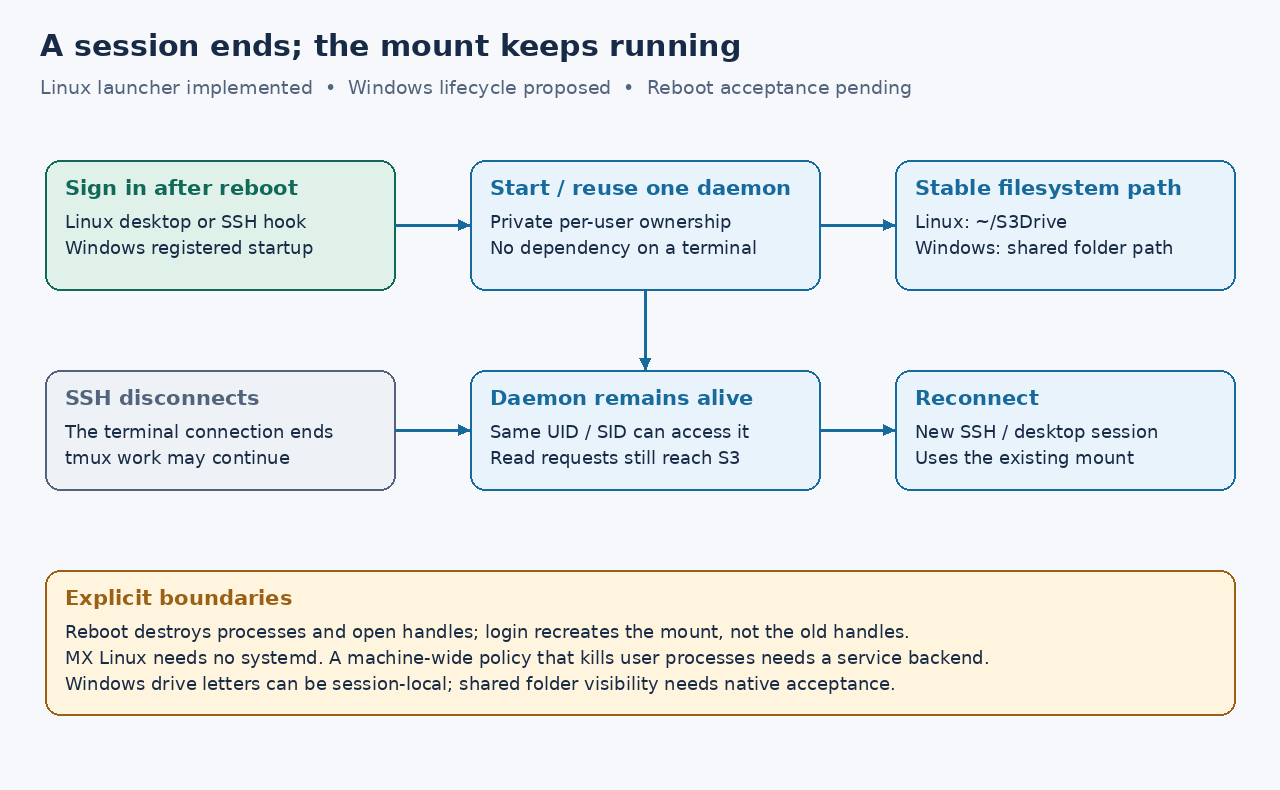
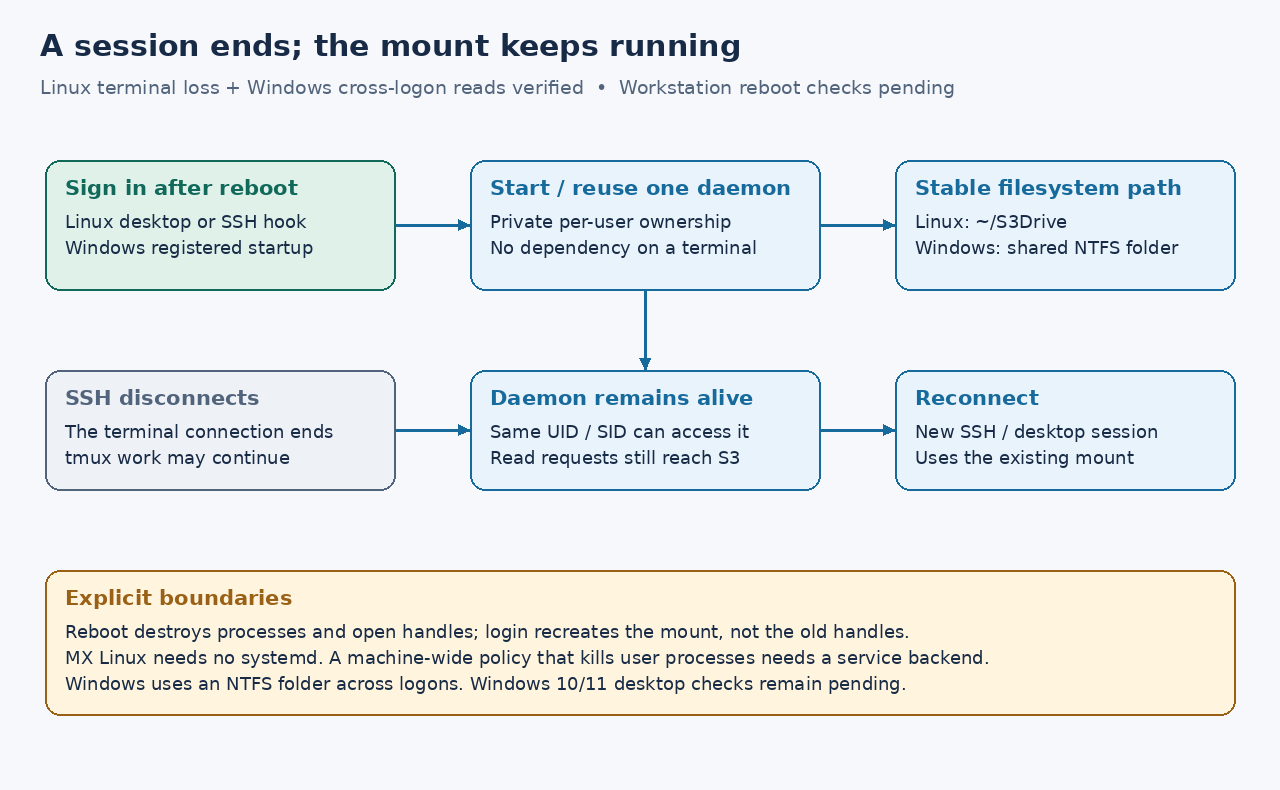
Document verified Linux and Windows startup boundaries and test hosts

Changed region(s): [[0.0625, 0.0911, 0.75, 0.1215], [0.125, 0.8506, 0.7188, 0.881], [0.8438, 0.3038, 0.9375, 0.3342]]

diff --git a/scripts/draw-architecture.py b/scripts/draw-architecture.py
@@ -63,7 +63,7 @@ d.box(440, 515, 365, 125, "S3 client + Tokio", ["AWS SDK for Rust", "LIST / HEAD
 d.arrow([(620, 465), (620, 515)])
 d.box(890, 440, 340, 200, "S3-compatible service", ["Wasabi / other providers", "Bucket A: documents/…", "Bucket B: photos/…", "Stores the actual file bytes"], color=GREEN, fill="#dff1e9")
 d.arrow([(805, 560), (890, 560)], label="HTTPS", position=(816, 532))
-d.box(50, 515, 330, 125, "Linux startup", ["Desktop and SSH login hooks", "No systemd dependency"])
+d.box(50, 515, 330, 125, "Startup supervisors", ["Linux: hooks, no systemd", "Windows: Task Scheduler"])
 d.arrow([(380, 575), (415, 575), (415, 420), (440, 420)])
 d.box(50, 705, 350, 135, "Local SQLite", ["Schema bootstrap exists", "Planned: cache metadata,", "local recovery / upload journal"], color=AMBER, fill="#fff4de")
 d.box(440, 705, 365, 125, "Local cache files", ["Planned: downloaded data", "and durable staged generations"], color=AMBER, fill="#fff4de", planned=True)
@@ -73,10 +73,10 @@ d.box(890, 705, 340, 125, "Optional Turso service", ["Shared metadata authority"
 d.text(50, 850, "State and cache stay outside the mounted filesystem. Current mounts are read-only.", 17, color=MUTED)
 d.save("architecture.png")
 
-d = Diagram("A session ends; the mount keeps running", "Linux launcher implemented  •  Windows lifecycle proposed  •  Reboot acceptance pending", 790)
+d = Diagram("A session ends; the mount keeps running", "Linux terminal loss + Windows cross-logon reads verified  •  Workstation reboot checks pending", 790)
 d.box(45, 160, 350, 130, "Sign in after reboot", ["Linux desktop or SSH hook", "Windows registered startup"], color=GREEN, fill="#dff1e9")
 d.box(470, 160, 350, 130, "Start / reuse one daemon", ["Private per-user ownership", "No dependency on a terminal"])
-d.box(895, 160, 340, 130, "Stable filesystem path", ["Linux: ~/S3Drive", "Windows: shared folder path"])
+d.box(895, 160, 340, 130, "Stable filesystem path", ["Linux: ~/S3Drive", "Windows: shared NTFS folder"])
 d.arrow([(395, 225), (470, 225)])
 d.arrow([(820, 225), (895, 225)])
 d.box(45, 370, 350, 120, "SSH disconnects", ["The terminal connection ends", "tmux work may continue"], color=MUTED, fill="#eef1f6")
@@ -85,7 +85,7 @@ d.arrow([(645, 290), (645, 370)])
 d.arrow([(395, 430), (470, 430)])
 d.box(895, 370, 340, 120, "Reconnect", ["New SSH / desktop session", "Uses the existing mount"])
 d.arrow([(820, 430), (895, 430)])
-d.box(45, 570, 1190, 145, "Explicit boundaries", ["Reboot destroys processes and open handles; login recreates the mount, not the old handles.", "MX Linux needs no systemd. A machine-wide policy that kills user processes needs a service backend.", "Windows drive letters can be session-local; shared folder visibility needs native acceptance."], color=AMBER, fill="#fff4de")
+d.box(45, 570, 1190, 145, "Explicit boundaries", ["Reboot destroys processes and open handles; login recreates the mount, not the old handles.", "MX Linux needs no systemd. A machine-wide policy that kills user processes needs a service backend.", "Windows uses an NTFS folder across logons. Windows 10/11 desktop checks remain pending."], color=AMBER, fill="#fff4de")
 d.save("startup-lifecycle.png")
 
 d = Diagram("Turso as a shared metadata authority", "Proposed managed mode  •  Not implemented or enabled  •  File bytes remain in S3", 870)

diff --git a/HANDOFF.md b/HANDOFF.md
@@ -2,8 +2,9 @@
 
 Updated: 2026-10-16. P3 read-only mounts have passed native acceptance on Linux
 and Windows. Scoped live Wasabi reads also passed. P3.5a adds Linux startup
-without systemd; native session tests passed locally. Goal active; Windows
-startup, cache, recovery, safe writes and packaging remain future work.
+without systemd; native session tests passed locally. P3.5b adds Windows
+startup with native cross-logon acceptance. Goal active; actual workstation
+reboot/SSH login checks, cache, recovery, safe writes and packaging remain.
 
 ## Goal and scope
 
@@ -62,22 +63,39 @@ including Linux startup, Linux/Windows native mounts and book checks.
 Actual reboot, full desktop logout
 policy and incoming SSH authentication/PAM need separate acceptance.
 
-On `windows-session-startup`, the Windows foreground mount also accepts a new
-absolute NTFS directory path, with existing parents and no junctions/symlinks.
-Directory tests cover Unicode reads, occupied targets, graceful teardown and
-forced process termination; native CI run 38935158119 passed at `af18c3a`.
-The new `scripts/windows-session.ps1` registers an owner-account, least-privilege
-password-backed scheduled task. Its independent supervisor uses stdin EOF for
-graceful unmount. No Windows passwords are stored in application files/argv.
-`scripts/test-windows-session.ps1`, called by the native Rust test while the HTTP
-fixture is live, creates a disposable non-admin account and two independent
-logons to verify real S3/Unicode reads, duplicate starts and uninstall.
-Startup native CI is pending; do not claim cross-session acceptance yet.
-No real user Windows credential or startup registration was changed. Accounts
-without usable Windows passwords or with restrictive batch-logon policies need
-a service alternative, not an S4U/interactive-only fallback. Actual reboot,
-full sign-out, SSH authentication/trigger behavior remain host acceptance work.
-See `docs/src/startup-and-sessions.md`.
+Windows foreground mounts accept a new absolute NTFS directory path, with
+existing parents and no junctions/symlinks. Tests cover Unicode reads, occupied
+targets, graceful teardown and forced process termination. The persistent
+`scripts/windows-session.ps1` registers an owner-account, least-privilege,
+password-backed scheduled task. Its supervisor uses stdin EOF for graceful
+unmount. No Windows password is stored in application files/argv. The account
+requires batch-logon rights; the launcher never changes security policy.
+
+Native startup acceptance passed at `029765ec79c99a029037356ba61278fc7de6ab7b`
+in [run 38945436975](https://github.com/marshallr12/s3drive/actions/runs/38945436975).
+Tests run remotely on GitHub's Windows Server 2025 VM (`10.0.26100`), not on
+this Linux workstation. The test creates an ordinary account and verifies two
+distinct TOKEN_STATISTICS.AuthenticationId values reading the same daemon's
+exact S3/Unicode bytes after its installer exits. Duplicate starts preserve
+its PID; another account is denied access. Remove deletes the task/mount and
+preserves config/credentials. The prior drive/folder Unicode corpus also runs.
+Actual Windows 10/11 desktop, reboot, full sign-out and SSH authentication/trigger
+behavior remain target-host acceptance work. No real user Windows credential or
+startup registration changed. Passwordless accounts or restrictive batch-logon
+policy require a service alternative, which is not implemented.
+
+The elevated fixture provisions/removes only its new account's batch right.
+Short-lived clients use CreateProfile's returned path without loading HKCU.
+Windows can retain a locked registry profile after all fixture processes exit.
+CI explicitly permits only that sharing violation to defer to GitHub VM
+destruction, after successful functional checks, dummy credential removal and
+account deletion; all other cleanup failures remain fatal. Normal local tests
+still require profile deletion. This is fixture disposal, not application
+uninstall behavior. See `docs/src/development.md` and `startup-and-sessions.md`.
+`whoami /logonid` can be inherited by CreateProcessWithLogonW clients, so use
+token AuthenticationId for session uniqueness. Earlier failing runs and logs
+`/tmp/s3drive-windows-session-job10.log` through `job12.log` retain the diagnosis;
+do not report them as complete acceptance.
 
 ## Turso research and architecture images
 
@@ -171,23 +189,23 @@ was fixed and the complete native gate rerun; none is acceptance evidence.
 
 ## Publication and next work
 
-Linux startup/research is published to private `origin/main` at
-`3eeb40bf94f990e2917c49b4107f74a4679ef61a`; final-source CI run
-[38933907710](https://github.com/marshallr12/s3drive/actions/runs/38933907710)
-passed. Windows startup work is on `windows-session-startup`. Baseline and
-directory-mount local gates passed (`/tmp/s3drive-windows-startup-baseline.log`,
-`/tmp/s3drive-windows-folder-gate.log`). Publication requires the exact branch tip's
-terminal CI success, then a fast-forward. Check current Git and Actions state
-when resuming; preserve ignored user configuration.
+Linux startup/research baseline `3eeb40bf94f990e2917c49b4107f74a4679ef61a`
+passed final-source CI run 38933907710. Windows startup source checkpoint
+`029765ec79c99a029037356ba61278fc7de6ab7b` has native acceptance in run
+38945436975; subsequent updates document the results and refresh the diagrams.
+The publication procedure is a terminal successful CI run for the final branch
+tip, followed by fast-forwarding/pushing private `origin/main`. Check live Git
+and Actions state when resuming; preserve ignored user configuration. The local
+gate log is `/tmp/s3drive-windows-session-final-gate.log`.
 
-Next is P3.5b Windows startup/session acceptance, followed by P4: design
-authenticated cache identity, SQLite migration, revision-
-bound clean data cache, exclusive process ownership, eviction/pinning and
-restart/disk-full/offline-miss tests. Keep cache/state outside mounted trees.
-Writes require separate staged generations and a durable journal (P5a),
-provider conditional commits/recovery (P5b), then desktop mutations (P5c).
-Do not expose unconditional overwrite as a shortcut. Broader live provider
-probes must use explicitly scoped disposable fixtures.
+Target-workstation reboot/sign-in, full sign-out policy and SSH authentication
+acceptance remain pending. The next independent implementation phase is P4:
+authenticated cache identity, SQLite migration, revision-bound clean data cache,
+exclusive process ownership, eviction/pinning and restart/disk-full/offline-miss
+tests. Keep cache/state outside mounted trees. Writes require separate staged
+generations and a durable journal (P5a), provider conditional commits/recovery
+(P5b), then desktop mutations (P5c). Do not expose unconditional overwrite as a
+shortcut. Broader live provider probes require scoped disposable fixtures.
 
 Read the mdBook implementation plan, provider/OS contracts and decisions.
 No subagents were dispatched. The overall goal is not complete.

diff --git a/docs/src/startup-and-sessions.md b/docs/src/startup-and-sessions.md
@@ -83,7 +83,8 @@ exposes an NTFS directory mount as the common desktop/SSH path. A drive letter
 can remain a convenience inside an individual session.
 
 `scripts/windows-session.ps1` implements a password-backed Task Scheduler
-registration. Native acceptance is pending for this new backend. The scheduled
+registration. Native cross-logon acceptance passed on the hosted Windows VM.
+The scheduled
 process uses the mounting account at least privilege in a separate batch logon,
 has no execution time limit, ignores duplicate starts and retries an unexpected
 failure at most three times. Its private supervisor launches the Rust mount and
@@ -159,7 +160,8 @@ python3 scripts/test-linux-session.py
 The startup source checkpoint `664f51cdbf0e44cf2410da4cd3bef606e03fe5fc`
 also passed Linux startup, both native filesystem gates and book checks in
 [CI run 38933462454](https://github.com/marshallr12/s3drive/actions/runs/38933462454).
-The Windows result covers the existing foreground drive, not persistent startup.
+That earlier Windows result covers the foreground drive. The newer persistent
+startup evidence is recorded below.
 
 It uses a real FUSE mount, the real desktop-entry parser (`gio`), a login hook
 inside a temporary tmux server, duplicate startup attempts, destruction of that
@@ -170,7 +172,20 @@ changing the profile. Paths include spaces, Unicode, dollar and percent characte
 It checks the synthetic source root without contacting any cloud account.
 The existing native mount gates separately verify remote object reads.
 
+Windows persistent startup passed the native test at
+`029765ec79c99a029037356ba61278fc7de6ab7b` in
+[run 38945436975](https://github.com/marshallr12/s3drive/actions/runs/38945436975).
+This runs remotely on a GitHub-hosted Windows Server 2025 VM with real WinFsp,
+using local HTTP fixtures and dummy S3 credentials. An ordinary account installs
+the task; two fresh authentication sessions read the same surviving mount after
+the installer exits. Exact S3/Unicode bytes, duplicate starts, another account's
+denied access and graceful removal are checked. The fixture account is
+provisioned by an elevated test harness; the mounted process runs at least privilege.
+The CI VM may retain its locked Windows test profile until VM destruction, after
+removing the dummy credentials and account. This explicit, narrow exception
+does not bypass any mount or access assertion; see [test cleanup](development.md).
+
 Actual workstation reboot, desktop sign-out under its logout policy, incoming
-SSH authentication/PAM behavior and Windows cross-logon visibility still need
+SSH authentication/PAM behavior and Windows 10/11 desktop behavior still need
 their own acceptance evidence. No startup was installed into the user's real
 desktop or login profile during the isolated tests.

diff --git a/docs/src/decisions.md b/docs/src/decisions.md
@@ -22,7 +22,7 @@ to the user.
 | D014 | User selected and tested for reads | Wasabi `us-east-2`, bucket `s3drivetest`, local profile `wasabi-s3drive`; isolated test objects were approved, verified and removed |
 | D015 | Adopted for P2 | Bounded, uncached read-only namespace; collisions fail the directory, handles pin revisions, Linux direct I/O avoids mixed kernel cache revisions |
 | D016 | Adopted from live Wasabi evidence | Explicit `list_url_encoding = "form"` decodes raw listing plus signs as spaces before one percent decode; other providers retain percent-only default |
-| D017 | User requirement; Linux launcher implemented | Start at sign-in after reboot; keep the mount accessible from later same-account SSH sessions and surviving tmux processes. Support MX Linux without systemd. Windows cross-logon startup and actual reboot acceptance remain pending |
+| D017 | User requirement; Linux and Windows launchers implemented | Start at sign-in after reboot; keep the mount accessible from later same-account SSH sessions and surviving tmux processes. Support MX Linux without systemd. Linux terminal-loss and Windows cross-logon checks passed; actual workstation reboot/SSH authentication acceptance remains pending |
 | D018 | Proposed after research | Evaluate Turso Cloud behind an authoritative coordination API; retain local SQLite. Do not use offline last-push-wins sync for leases or publication, or treat SQL/S3 as one transaction |
 
 ## Questions to resolve at the relevant phase

diff --git a/docs/src/implementation-plan.md b/docs/src/implementation-plan.md
@@ -96,10 +96,15 @@ in tmux, destruction of that terminal and subsequent process access. Tests also
 cover private registration, preservation of existing profile content/mode and
 refusal to remove edited startup entries. No real user login profile was changed.
 
-Windows needs a directory mount and service/scheduled-task decision that works
-across distinct logon sessions. An interactive task plus a drive letter is not
-sufficient evidence. Actual reboot and account logout policy checks on the
-target workstations remain pending on both platforms.
+Windows implements an owner-account, password-backed scheduled task with a
+shared NTFS directory mount. Native acceptance at `029765e` in
+[run 38945436975](https://github.com/marshallr12/s3drive/actions/runs/38945436975)
+verifies two distinct authentication sessions reading the same daemon's S3 and
+Unicode bytes, owner-only access, duplicate starts and graceful removal.
+The disposable CI VM has an explicit exception for an OS-retained locked test
+profile; see [verification details](development.md). Actual reboot, desktop
+logout policy, SSH authentication and Windows 10/11 desktop checks remain
+pending. These are not inferred from the scheduled-task definition.
 
 ### Optional coordination investigation
 

diff --git a/docs/src/README.md b/docs/src/README.md
@@ -46,7 +46,7 @@ an authoritative metadata service rather than hiding weaknesses of copy/delete.
 | Linux filesystem mount | Implemented read-only FUSE; see [mount contract](linux-mount.md) and native evidence in handoff |
 | Windows drive mount | Implemented WinFsp adapter; [native read-only acceptance passed](windows-mount.md) |
 | Linux sign-in startup, including MX without systemd | [Detached launcher implemented](startup-and-sessions.md); native desktop/login-hook/terminal-loss checks passed |
-| Windows startup across login sessions | Planned; foreground drive acceptance does not establish this contract |
+| Windows startup across login sessions | [Scheduled task and shared NTFS folder implemented](startup-and-sessions.md); native cross-logon reads/removal passed; workstation reboot/SSH authentication pending |
 | Cross-machine coordination with Turso | [Research and design proposal](turso-coordination.md); no dependency or cloud service enabled |
 | Read cache, upload journal, offline use, tray UI | Planned |
 

diff --git a/README.md b/README.md
@@ -11,7 +11,9 @@ through FUSE; see the [Linux contract](docs/src/linux-mount.md) and
 Native read-only acceptance passed on both platforms; file caching and writes remain planned.
 [Linux sign-in startup](docs/src/startup-and-sessions.md) works without systemd,
 including MX Linux, and has a native terminal-disconnect acceptance test.
-Windows startup across login sessions remains a separate phase.
+Windows startup uses a per-user scheduled task and an NTFS folder shared across
+logins; native cross-logon reads and removal passed on the hosted Windows VM.
+Actual workstation reboot, sign-out policy and SSH authentication remain separate checks.
 [Wasabi read acceptance](docs/src/wasabi.md) passed against isolated test
 objects, including a real Linux mount. Broader provider conformance is pending.
 

diff --git a/docs/src/architecture.md b/docs/src/architecture.md
@@ -41,8 +41,10 @@ of credentials and object signing.
 
 The core `s3drive` mount process runs in the foreground. A detached per-user
 launcher now provides Linux desktop/SSH startup without requiring systemd.
-Windows needs a backend independent of the interactive logon session. A
-local control endpoint can carry status, unmount, pin, retry and conflict actions.
+Windows uses an account-owned password-backed scheduled task and a shared NTFS
+folder mount; native tests verify reads across distinct authentication sessions.
+Both launchers provide start/status/stop/remove. A future local control endpoint
+can carry status, unmount, pin, retry and conflict actions.
 A tray UI should consume that same API rather than implementing storage logic.
 
 ## Multiple buckets
